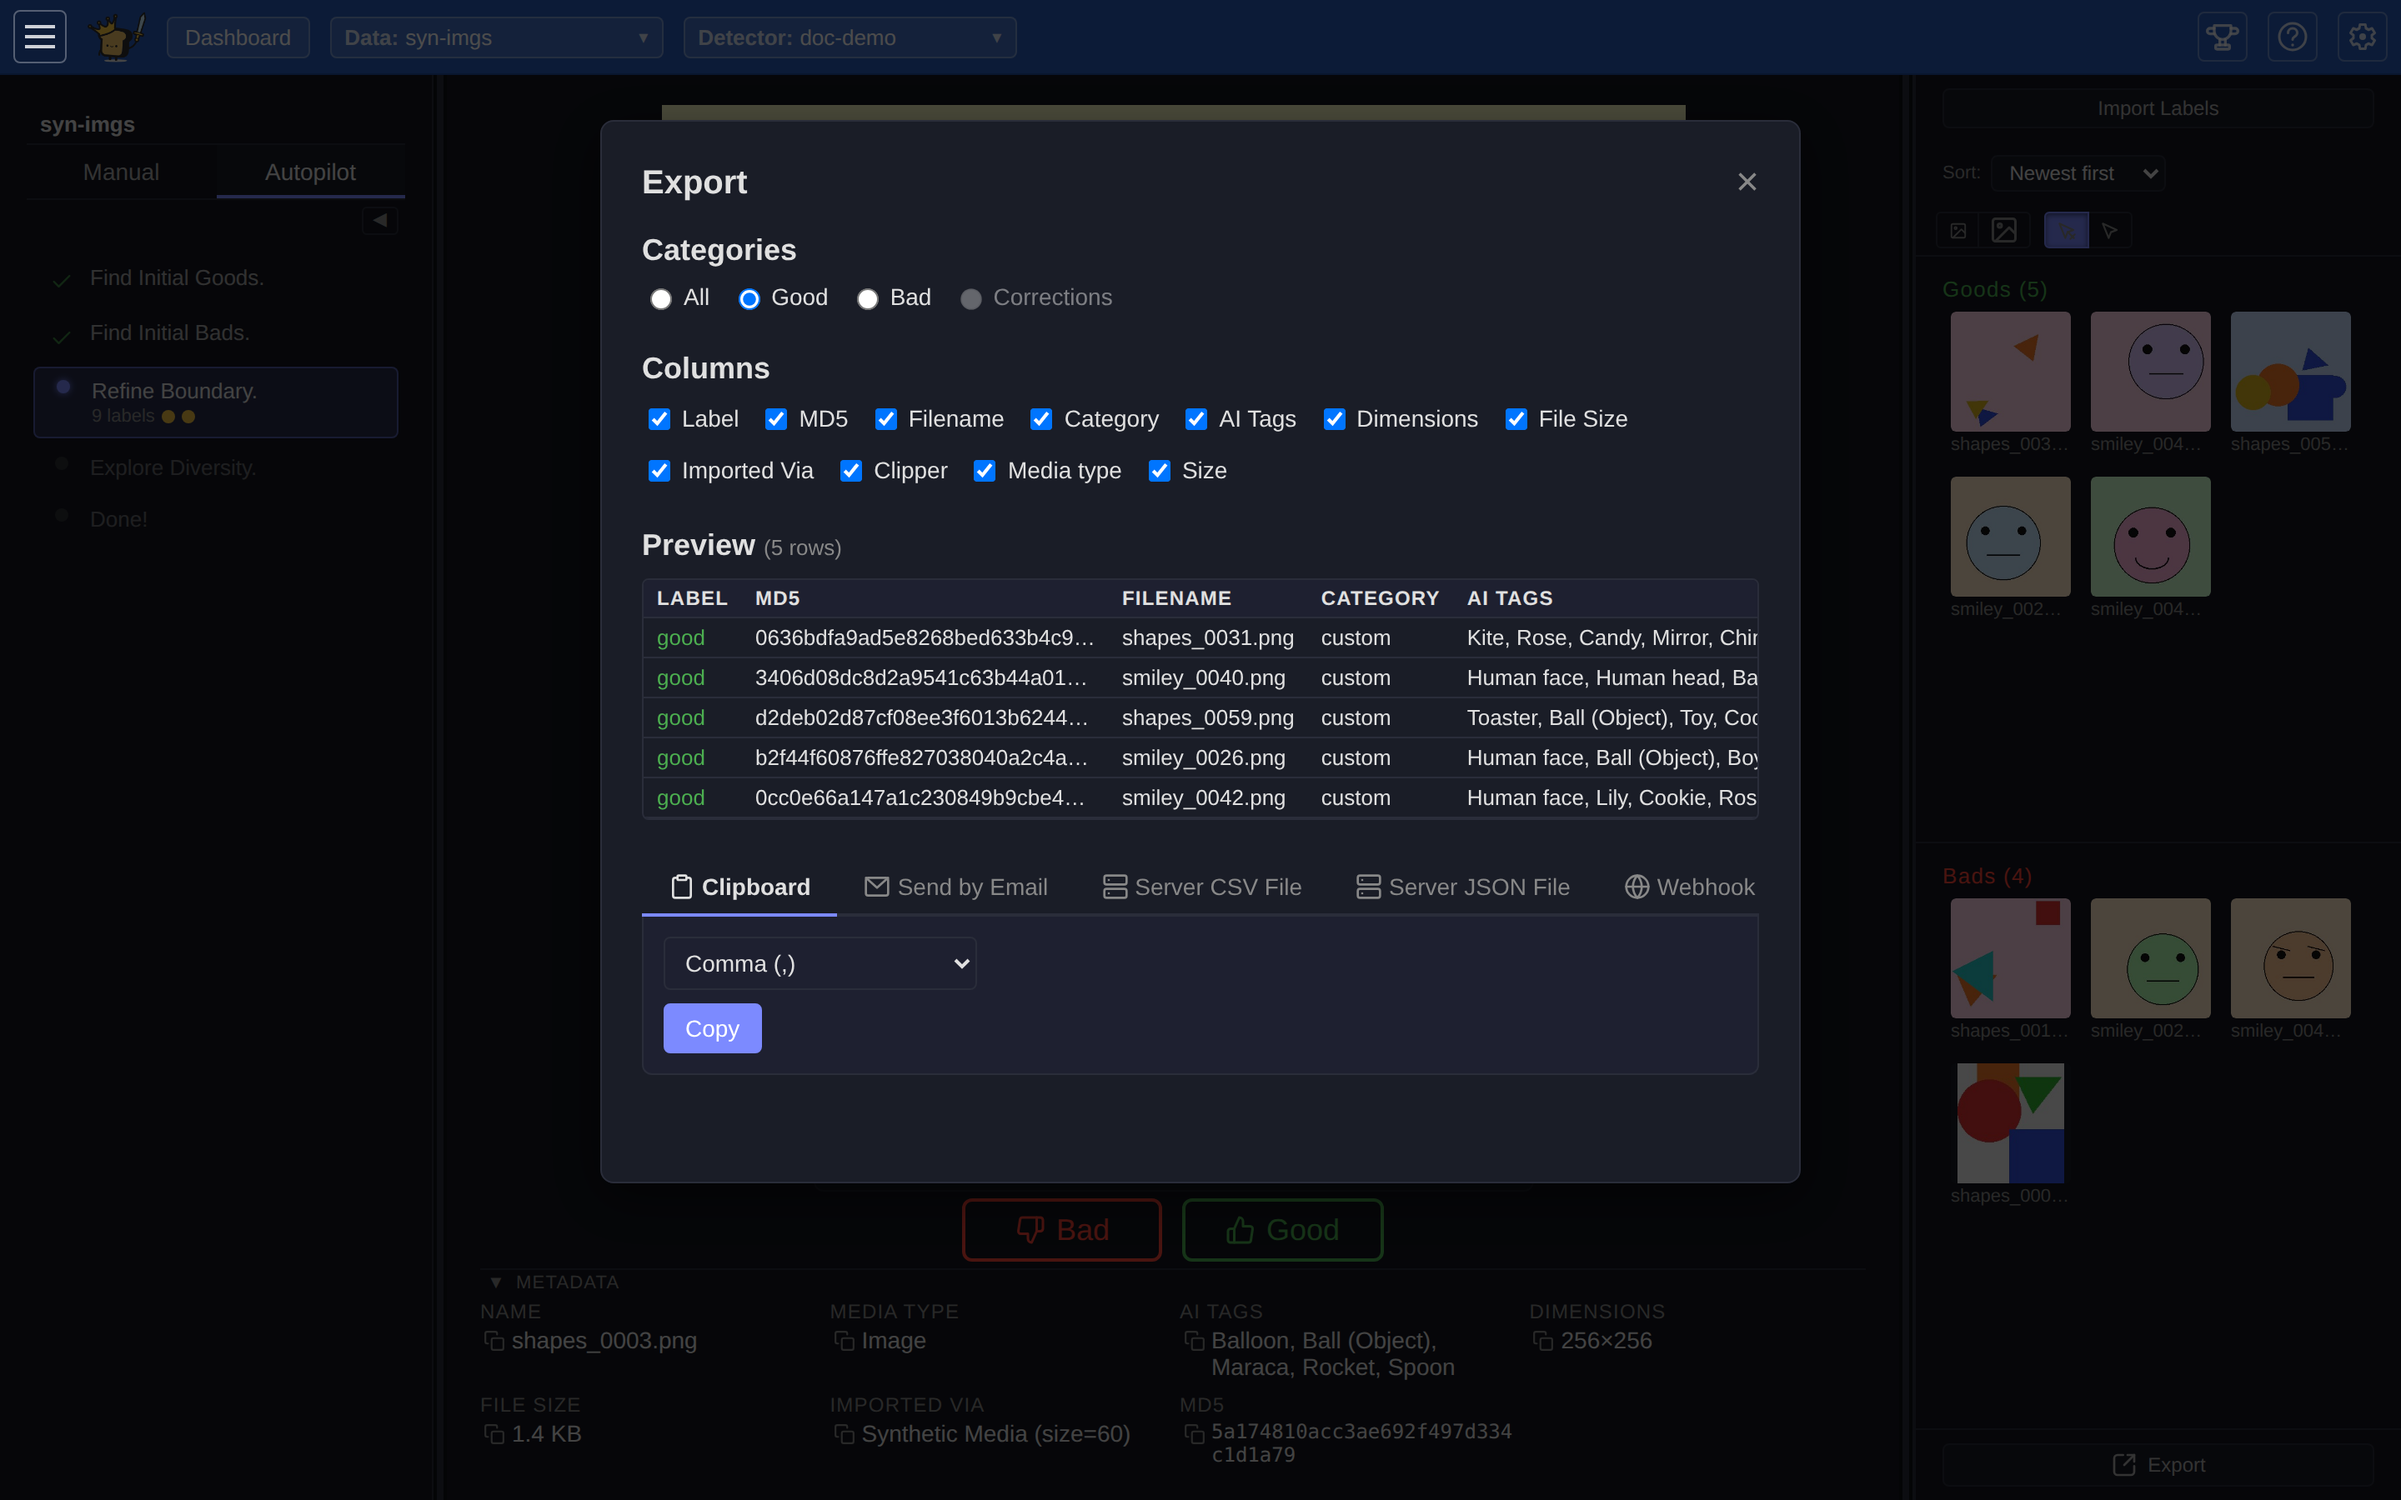
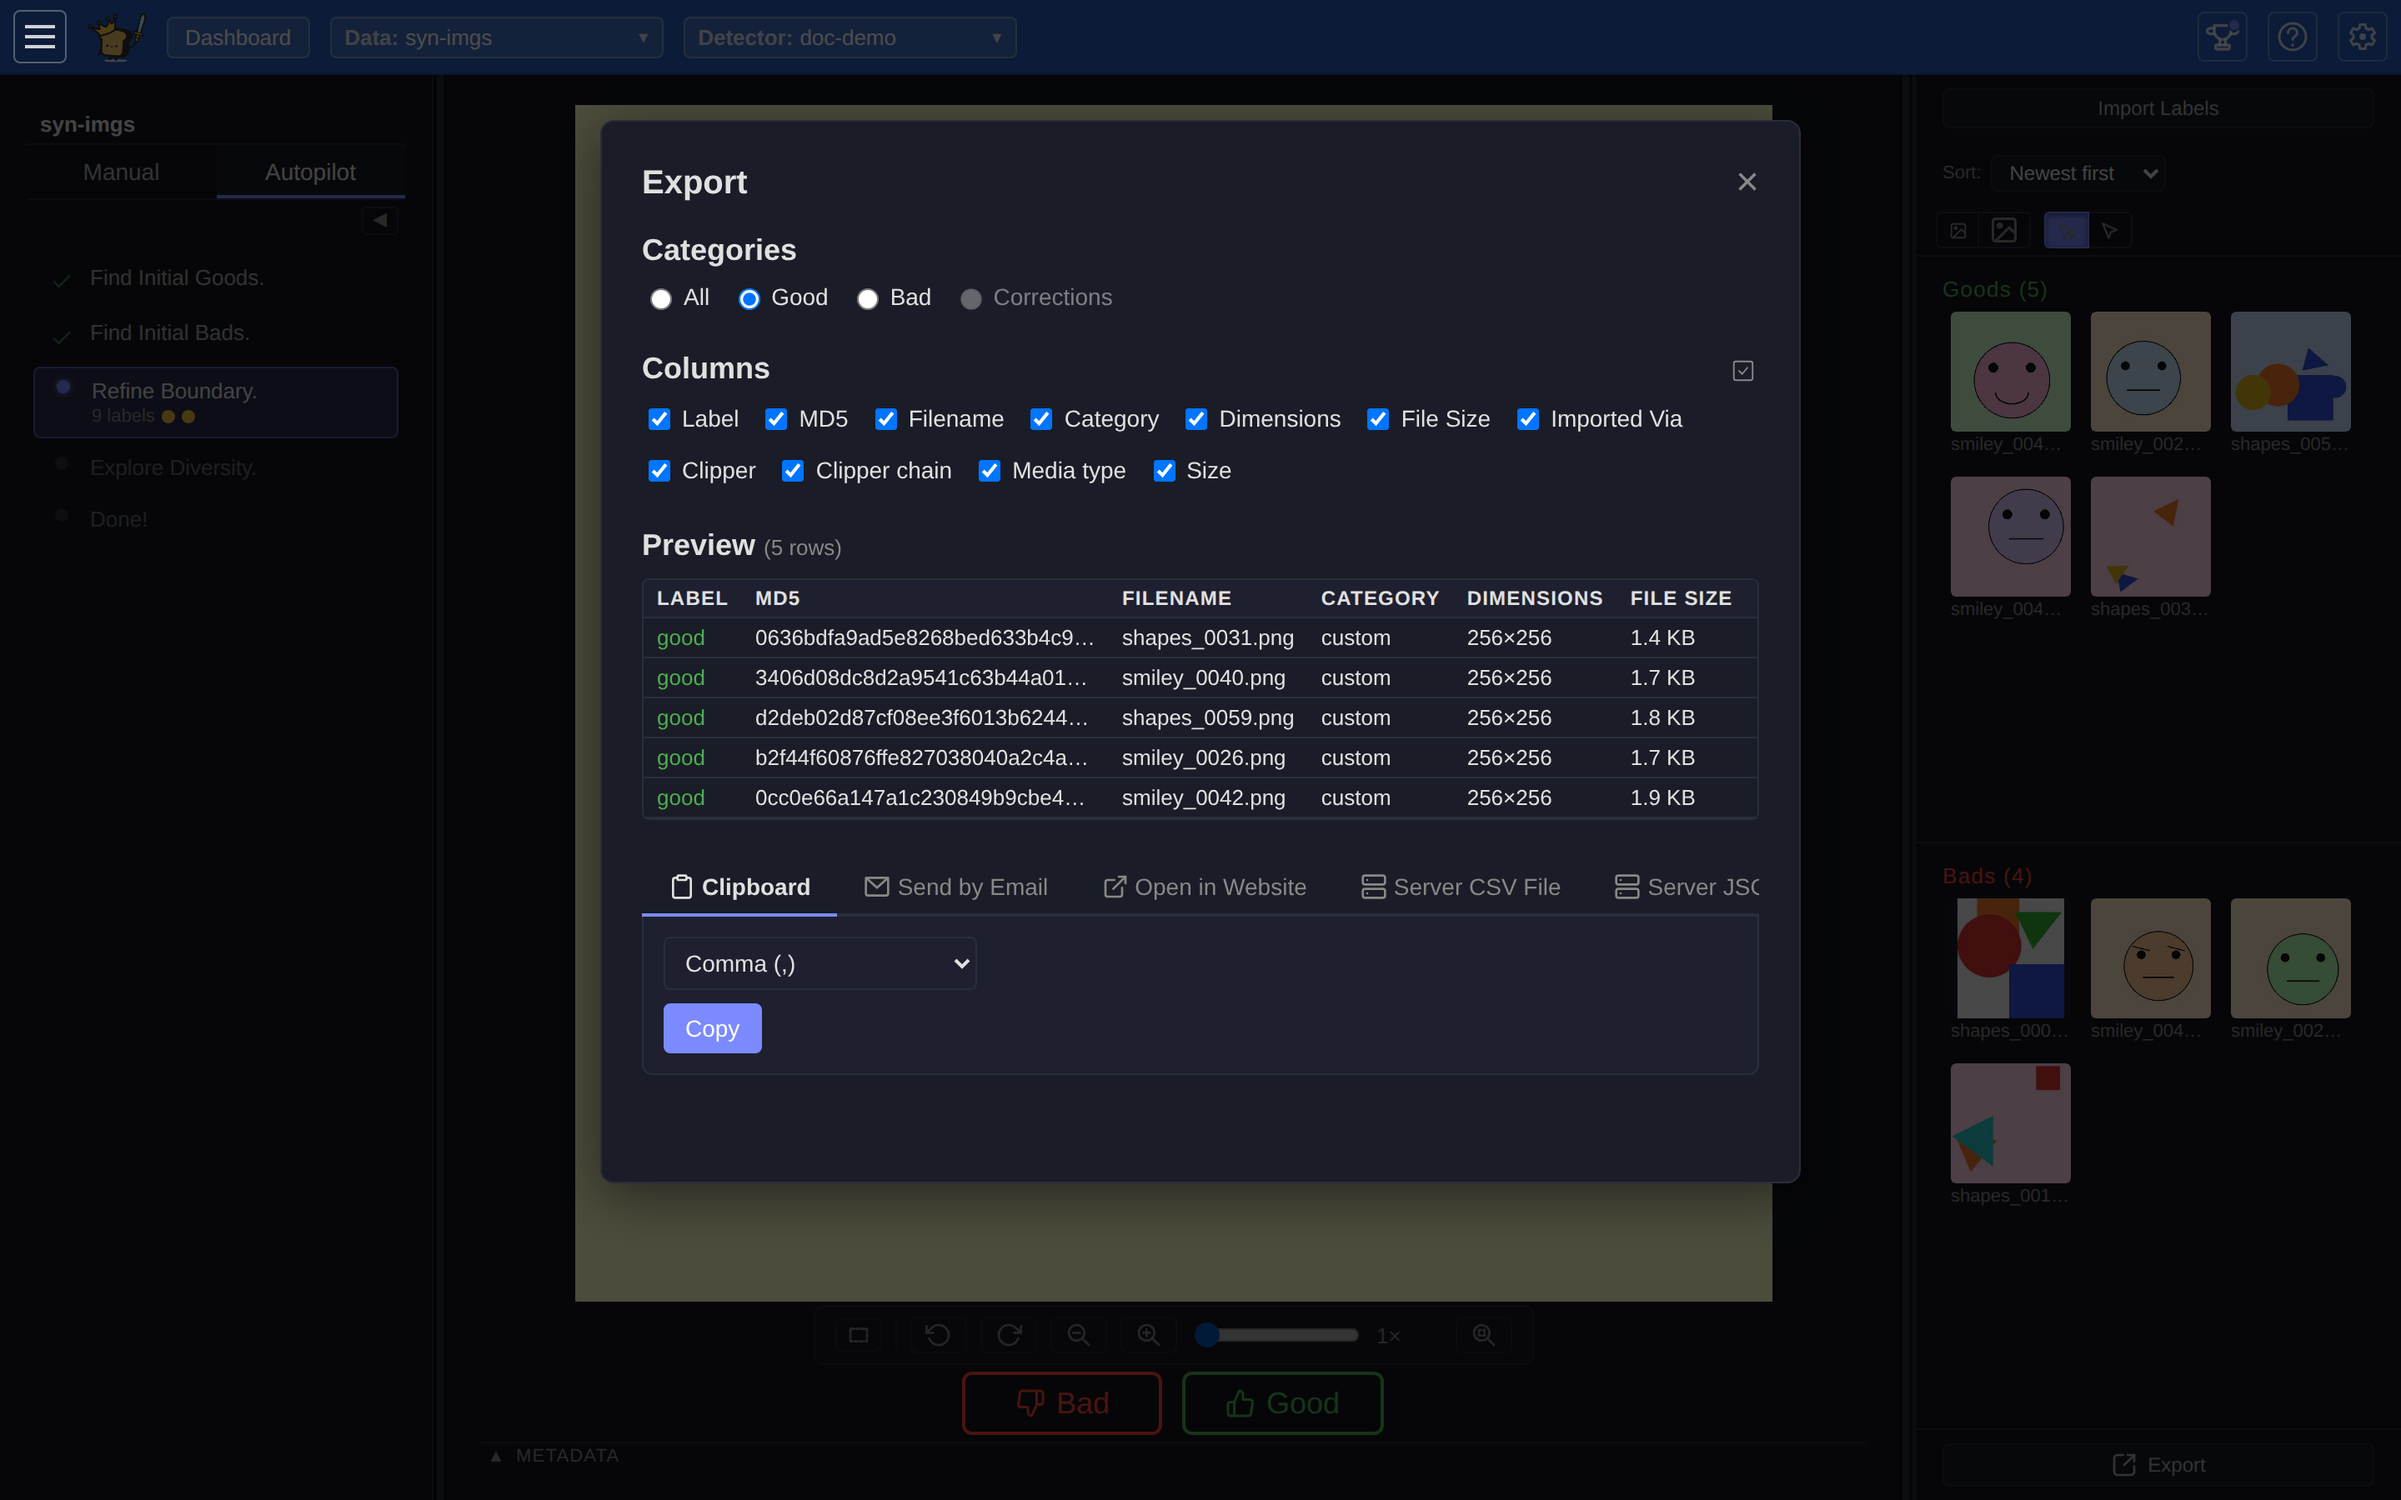
Reshoot export-picker: the Open in Website tab is in the docs now
The shot has been queued as stale since 2026-08-06, because #2855 added
the `open_url` exporter and with it a tab the captured PNG predates. It
sat there because the harness "needs a browser the container doesn't
have" — which stopped being true, and is now fixed (launchChromium).

Re-rendered both themes against the standard fixtures; the tab row now
shows Clipboard / Send by Email / Open in Website / Server CSV File /
Server JSON. Queue is down to `find-stats`, which a re-render genuinely
cannot drain — it needs a second SigLIP dataset in the fixture set.

Claude-Session: https://claude.ai/code/session_012tqT4ggFGJVWyTty3xLKsJ

diff --git a/docs/user/screenshots-reshoot-queue.md b/docs/user/screenshots-reshoot-queue.md
@@ -38,12 +38,9 @@ An empty table means "no known-stale shots" — the desired resting state.
 
 ## Queue
 
-The full shot set (20 shots × 2 themes) was re-rendered on 2026-07-29, so
-every row flagged before then is drained. One row survives, because a
-re-render alone cannot fix it: `find-stats` needs a *fixture* the harness
-doesn't build.
+One row survives, because a re-render alone cannot fix it: `find-stats` needs a
+*fixture* the harness doesn't build.
 
 | Shot id | Embedded in | Why it's stale | Flagged |
 |---------|-------------|----------------|---------|
-| `export-picker` | USER_GUIDE.md#exporting-your-work | The export tab bar gained an **Open in Website** tab (the `open_url` exporter, issue #2855), so the framed tab row no longer matches the captured PNG. | 2026-08-06 |
 | `find-stats` | USER_GUIDE.md#find-scoring-and-verifying | The Detector Stats modal gained a **Training-domain overlap** section (coverage-atlas domain-shift): when another dataset with a matching embedder is loaded, a reference picker + a chip reading "N% of this dataset looks atypical vs &lt;dataset&gt; — likely domain shift / largely in-domain" now render above "Detector Accuracy". The 2026-07-29 reshoot did **not** drain this: the section only renders when a second dataset sharing the shot dataset's embedder is loaded, and `ensure-fixtures.mjs` builds `syn-imgs` (SigLIP) and `syn-patch` (DINOv2-patch) — different embedders, so no reference is offered. Draining this row needs a second SigLIP image dataset in the fixture set first. | 2026-07-20 |
